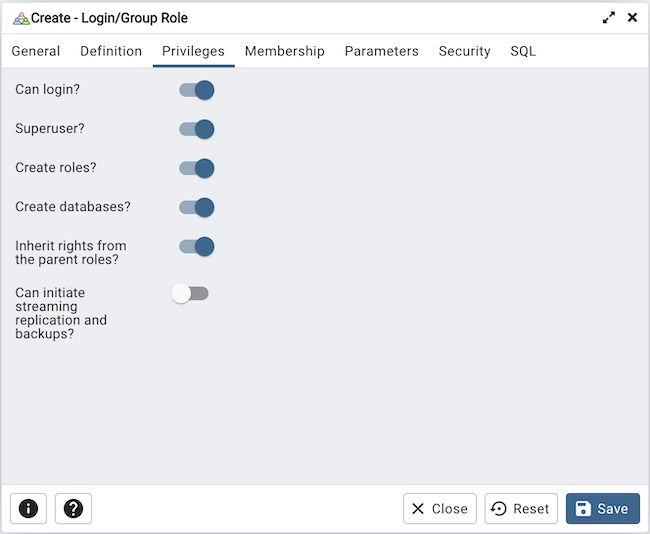
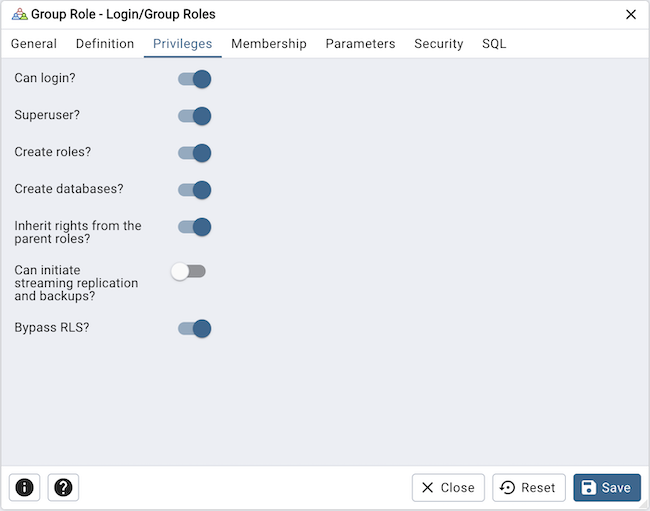
Added BYPASSRLS|NOBYPASSRLS option while creating a Role. #6392

diff --git a/web/pgadmin/browser/server_groups/servers/roles/static/js/role.ui.js b/web/pgadmin/browser/server_groups/servers/roles/static/js/role.ui.js
@@ -24,13 +24,13 @@ export default class RoleSchema extends BaseUISchema {
       rolcreaterole: false,
       rolcreatedb: false,
       rolinherit: true,
-      rolcatupdate: false,
       rolreplication: false,
       rolmembership: [],
       rolmembers: [],
       rolvaliduntil: null,
       seclabels: [],
       variables: [],
+      rolbypassrls: false,
     });
     this.getVariableSchema = getVariableSchema;
     this.getMembershipSchema = getMembershipSchema;
@@ -124,7 +124,7 @@ export default class RoleSchema extends BaseUISchema {
         type: 'switch',
         group: gettext('Privileges'),
         depChange: (state) => {
-          state.rolcatupdate = state.rolcreaterole = state.rolcreatedb =  state.rolsuper;
+          state.rolcreaterole = state.rolcreatedb = state.rolbypassrls = state.rolsuper;
         },
         disabled: obj.readOnly,
       },
@@ -141,18 +141,6 @@ export default class RoleSchema extends BaseUISchema {
         disabled: obj.readOnly,
       },
       {
-        id: 'rolcatupdate', label: gettext('Update catalog?'),
-        max_version: 90400,
-        group: gettext('Privileges'),
-        type: 'switch',
-        disabled: (state) => {
-          return !state.rolsuper;
-        },
-        readonly: () => {
-          return !(obj.user.is_superuser || obj.user.can_create_role);
-        }
-      },
-      {
         id: 'rolinherit', group: gettext('Privileges'),
         label: gettext('Inherit rights from the parent roles?'),
         type: 'switch',
@@ -163,6 +151,12 @@ export default class RoleSchema extends BaseUISchema {
         label: gettext('Can initiate streaming replication and backups?'),
         type: 'switch',
         min_version: 90100,
+        disabled: obj.readOnly,
+      },
+      {
+        id: 'rolbypassrls', group: gettext('Privileges'),
+        label: gettext('Bypass RLS?'),
+        type: 'switch',
         disabled: obj.readOnly,
       },
       {

diff --git a/web/pgadmin/browser/static/js/node.js b/web/pgadmin/browser/static/js/node.js
@@ -808,7 +808,7 @@ define('pgadmin.browser.node', [
         id: panelId,
         title: panelTitle,
         manualClose: true,
-        icon: `dialog-node-icon ${evalFunc(this, this.node_image, dialogProps.itemNodeData) ?? ('icon-' + this.type)}`,
+        icon: `dialog-node-icon ${evalFunc(this, this.node_image, dialogProps.nodeData) ?? ('icon-' + this.type)}`,
         content: (
           <ErrorBoundary>
             <ObjectNodeProperties

diff --git a/web/pgadmin/browser/server_groups/servers/roles/static/js/role.js b/web/pgadmin/browser/server_groups/servers/roles/static/js/role.js
@@ -25,7 +25,7 @@ define('pgadmin.node.role', [
         type: 'coll-role',
         columns: [
           'rolname', 'rolvaliduntil', 'rolconnlimit', 'rolcanlogin',
-          'rolsuper', 'rolcreaterole', 'rolcreatedb', 'rolcatupdate',
+          'rolsuper', 'rolcreaterole', 'rolcreatedb',
           'rolinherit', 'rolreplication',
         ],
         canDrop: true,

diff --git a/web/pgadmin/browser/server_groups/servers/roles/__init__.py b/web/pgadmin/browser/server_groups/servers/roles/__init__.py
@@ -631,7 +631,6 @@ rolmembership:{
 
             self.role = row['rolname']
             self.rolCanLogin = row['rolcanlogin']
-            self.rolCatUpdate = row['rolcatupdate']
             self.rolSuper = row['rolsuper']
 
         return False, ''
@@ -677,7 +676,8 @@ rolmembership:{
                 self.alterKeys = [
                     'rolcanlogin', 'rolsuper', 'rolcreatedb',
                     'rolcreaterole', 'rolinherit', 'rolreplication',
-                    'rolconnlimit', 'rolvaliduntil', 'rolpassword'
+                    'rolconnlimit', 'rolvaliduntil', 'rolpassword',
+                    'rolbypassrls'
                 ] if self.manager.version >= 90200 else [
                     'rolcanlogin', 'rolsuper', 'rolcreatedb',
                     'rolcreaterole', 'rolinherit', 'rolconnlimit',
@@ -977,7 +977,6 @@ rolmembership:{
             conn=self.conn,
             role=self.role,
             rolCanLogin=self.rolCanLogin,
-            rolCatUpdate=self.rolCatUpdate,
             rolSuper=self.rolSuper,
             alterKeys=self.alterKeys
         )
@@ -1034,7 +1033,6 @@ rolmembership:{
                     conn=self.conn,
                     role=self.role,
                     rolCanLogin=self.rolCanLogin,
-                    rolCatUpdate=self.rolCatUpdate,
                     rolSuper=self.rolSuper,
                     alterKeys=self.alterKeys
                 ).strip('\n')

diff --git a/web/pgadmin/browser/server_groups/servers/roles/tests/utils.py b/web/pgadmin/browser/server_groups/servers/roles/tests/utils.py
@@ -78,6 +78,7 @@ def get_role_data(lr_pwd):
         "rolconnlimit": -1,
         "rolcreaterole": "true",
         "rolinherit": "true",
+        "rolbypassrls": "true",
         "rolmembership": [],
         "rolname": "test_role_%s" % str(uuid.uuid4())[1:8],
         "rolpassword": lr_pwd,

diff --git a/docs/en_US/role_dialog.rst b/docs/en_US/role_dialog.rst
@@ -57,15 +57,13 @@ Use the *Privileges* tab to grant privileges to the role.
   drop roles. The default value is *No*.
 * Move the *Create databases* switch to the *Yes* position to control whether a
   role can create databases. The default value is *No*.
-* The *Update catalog?* switch is disabled until the role is given superuser
-  privileges. Move the *Update catalogs?* switch to the *No* position to control
-  whether a role can update catalogs. The default value is *Yes* when the
-  *Superuser* switch is in the *Yes* position.
 * Move the *Inherit rights from the parent roles?* switch to the *No* position
   if a role does not inherit privileges. The default value is *Yes*.
 * Move the *Can initiate streaming replication and backups?* switch to the *Yes*
   position to control whether a role can initiate streaming replication or put
   the system in and out of backup mode. The default value is *No*.
+* Move the *Bypass RLS?* switch to the *Yes* position to control whether a
+  role can bypasses every row-level security (RLS) policy. The default value is *No*.
 
 .. image:: images/role_membership.png
     :alt: Role dialog membership tab

diff --git a/docs/en_US/release_notes_8_3.rst b/docs/en_US/release_notes_8_3.rst
@@ -1,0 +1,30 @@
+***********
+Version 8.3
+***********
+
+Release date: 2024-02-08
+
+This release contains a number of bug fixes and new features since the release of pgAdmin 4 v8.2.
+
+Supported Database Servers
+**************************
+**PostgreSQL**: 12, 13, 14, 15, and 16
+
+**EDB Advanced Server**: 12, 13, 14, 15, and 16
+
+Bundled PostgreSQL Utilities
+****************************
+**psql**, **pg_dump**, **pg_dumpall**, **pg_restore**: 16.0
+
+
+New features
+************
+
+  | `Issue #6392 <https://github.com/pgadmin-org/pgadmin4/issues/6392>`_ -  Added BYPASSRLS|NOBYPASSRLS option while creating a Role.
+
+Housekeeping
+************
+
+
+Bug fixes
+*********

diff --git a/docs/en_US/release_notes.rst b/docs/en_US/release_notes.rst
@@ -11,6 +11,7 @@ notes for it.
 .. toctree::
    :maxdepth: 1
 
+   release_notes_8_3
    release_notes_8_2
    release_notes_8_1
    release_notes_8_0
